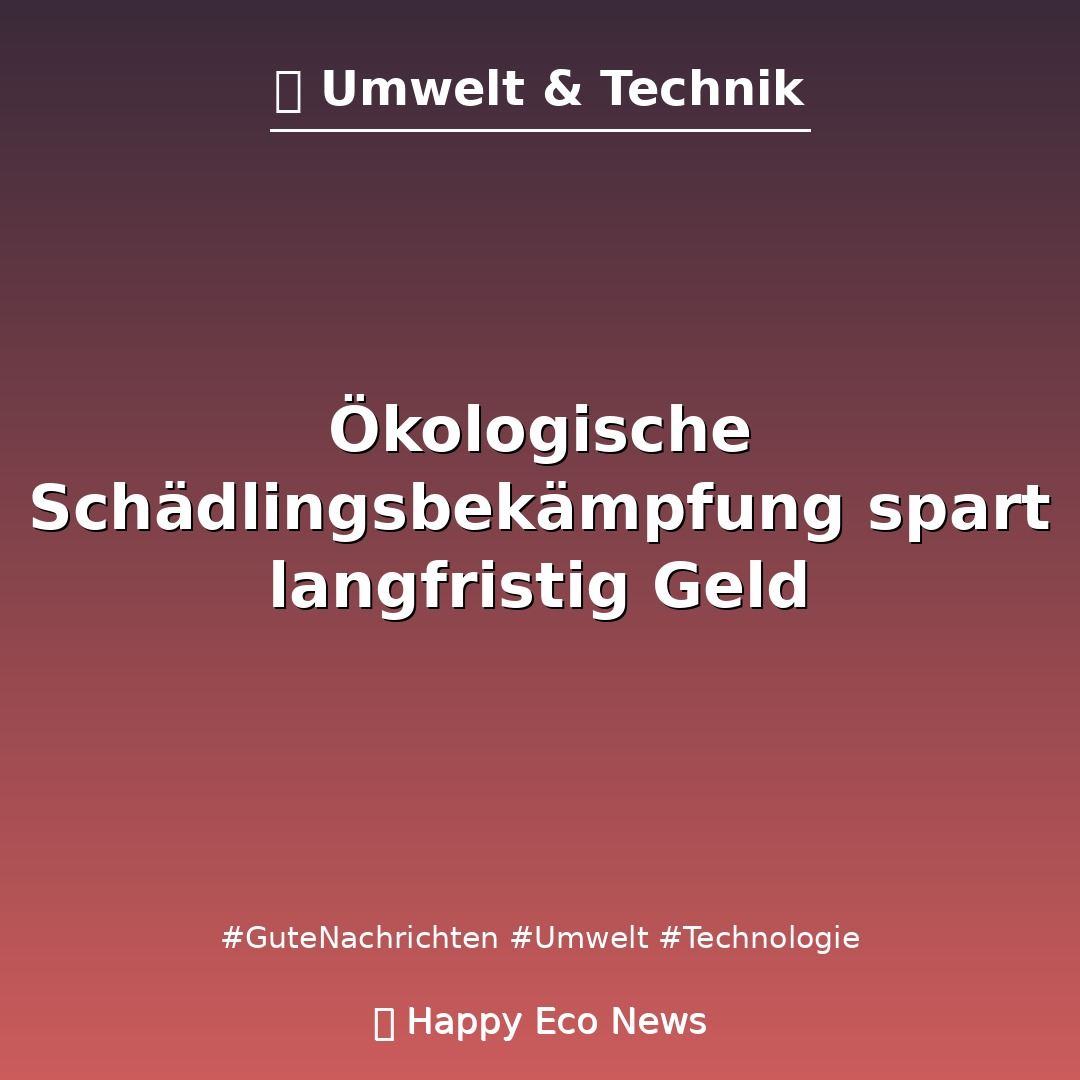
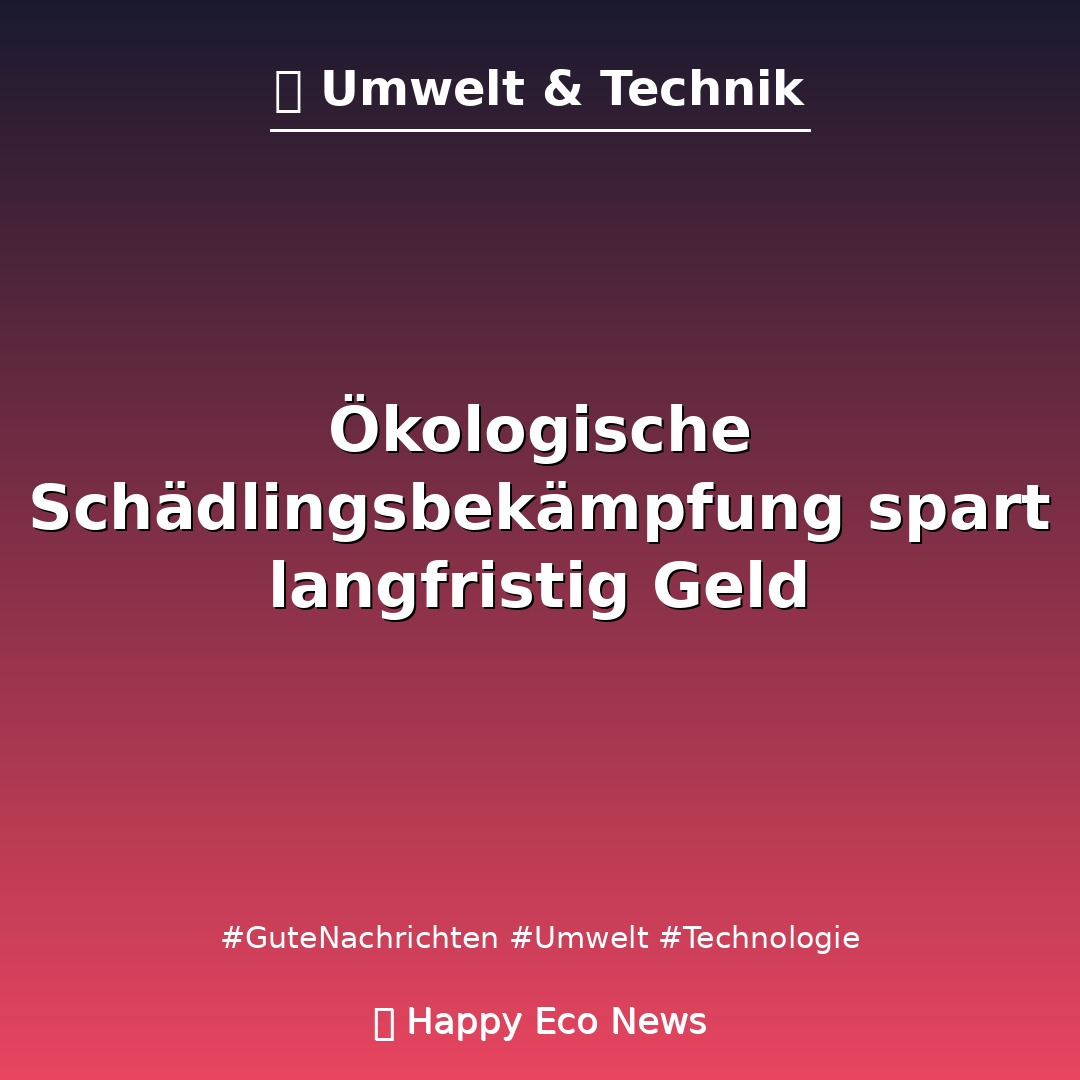
🤖 Aktualisiere Abend-Post mit vollständigem Text

Changed region(s): [[0.0, 0.0, 1.0, 0.1528], [0.0, 0.9167, 1.0, 1.0], [0.2139, 0.8556, 0.7944, 0.8861]]

diff --git a/content/posts/2026-10-13-ökologische-schädlingsbekämpfung-spart-langfristig-geld/index.md b/content/posts/2026-10-13-ökologische-schädlingsbekämpfung-spart-langfristig-geld/index.md
@@ -9,18 +9,18 @@ slug: "ökologische-schädlingsbekämpfung-spart-langfristig-geld"
 
 Ökologische Schädlingsbekämpfung spart langfristig Geld
 
-Schädlinge im Haus sind lästig. Ihre Bekämpfung belastet aber oft auch Gewässer, Böden und Bestäuber. Ein aktueller Bericht zeigt, warum umweltverträgliche Methoden eine praktische Alternative sein können.
+Schädlinge im Haus sind lästig. Ihre Bekämpfung belastet Gewässer, Böden und Bestäuber. Der Bericht zeigt, warum umweltverträgliche Methoden helfen können.
 
-Der Einstieg kostet meist mehr. Biologische Mittel, Pflanzenöle und gezielte Köder brauchen genaue Kontrollen. Laut dem Bericht liegen solche Anwendungen zunächst etwa 15 bis 30 Prozent über einem einfachen Chemiespray.
+Der Einstieg kostet meist mehr. Biologische Mittel, Pflanzenöle und gezielte Köder brauchen genaue Kontrollen. Laut dem Bericht liegen sie zunächst etwa 15 bis 30 Prozent über einem einfachen Chemiespray.
 
-Der Unterschied zeigt sich später. Breite Spritzungen töten auch natürliche Gegenspieler der Schädlinge. Dadurch können neue Probleme entstehen. Präzise Verfahren setzen dagegen stärker auf biologische Kreisläufe.
+Der Unterschied zeigt sich später. Breite Spritzungen töten auch natürliche Gegenspieler der Schädlinge. Präzise Verfahren setzen stärker auf Vorbeugung.
 
-Viele Programme arbeiten nach dem Prinzip des Integrierten Schädlingsmanagements. Fachleute suchen zuerst Eintrittsstellen, Feuchtigkeit und Nahrungsquellen. Danach dichten sie Ritzen ab, reparieren Schäden oder setzen gezielte Köder ein. So behandelt man die Ursache statt nur die sichtbaren Tiere.
+Viele Programme arbeiten nach dem Prinzip des Integrierten Schädlingsmanagements. Fachleute suchen Eintrittsstellen, Feuchtigkeit und Nahrungsquellen. Danach dichten sie Ritzen ab oder setzen gezielte Köder ein. So behandeln sie die Ursache statt nur die sichtbaren Tiere.
 
-Die Zahlen sind deutlich: 84 Prozent der Haushalte meldeten im vergangenen Jahr ein Schädlingsproblem. Zugleich kann Integriertes Schädlingsmanagement laut den im Artikel genannten Daten den Pestizideinsatz um 30,7 Prozent senken. In landwirtschaftlichen Versuchen stiegen die durchschnittlichen Erträge dabei um 40,9 Prozent.
+Die Zahlen sind deutlich: 84 Prozent der Haushalte meldeten im vergangenen Jahr ein Schädlingsproblem. Laut den im Artikel genannten Daten kann Integriertes Schädlingsmanagement den Pestizideinsatz um 30,7 Prozent senken. In landwirtschaftlichen Versuchen stiegen die Erträge dabei um 40,9 Prozent.
 
-Auch der Markt wächst. Organische Schädlingsbekämpfung soll von 5,4 Milliarden US-Dollar im Jahr 2025 auf 14,1 Milliarden US-Dollar im Jahr 2034 steigen. Das entspricht einem jährlichen Wachstum von 11,2 Prozent.
+Auch der Markt wächst. Organische Schädlingsbekämpfung soll von 5,4 Milliarden US-Dollar im Jahr 2025 auf 14,1 Milliarden US-Dollar im Jahr 2034 steigen. Das entspricht 11,2 Prozent jährlichem Wachstum.
 
-Wichtig bleibt der Vergleich über mehrere Jahre. Wer Anbieter prüft, sollte nach Vorbeugung, Wirkstoffen und Folgekosten fragen. Weniger Chemie schützt nicht automatisch vor jedem Schädling. Eine genaue Inspektion entscheidet, welche Maßnahme wirklich sinnvoll ist.
+Wer Anbieter prüft, sollte nach Vorbeugung, Wirkstoffen und Folgekosten fragen. Eine genaue Inspektion zeigt, welche Maßnahme sinnvoll ist.
 
 🔗 **Quelle:** [https://happyeconews.com/eco-friendly-pest-control-how-sustainable-methods-save-money-and-protect-your-homes-environment/](https://happyeconews.com/eco-friendly-pest-control-how-sustainable-methods-save-money-and-protect-your-homes-environment/)
